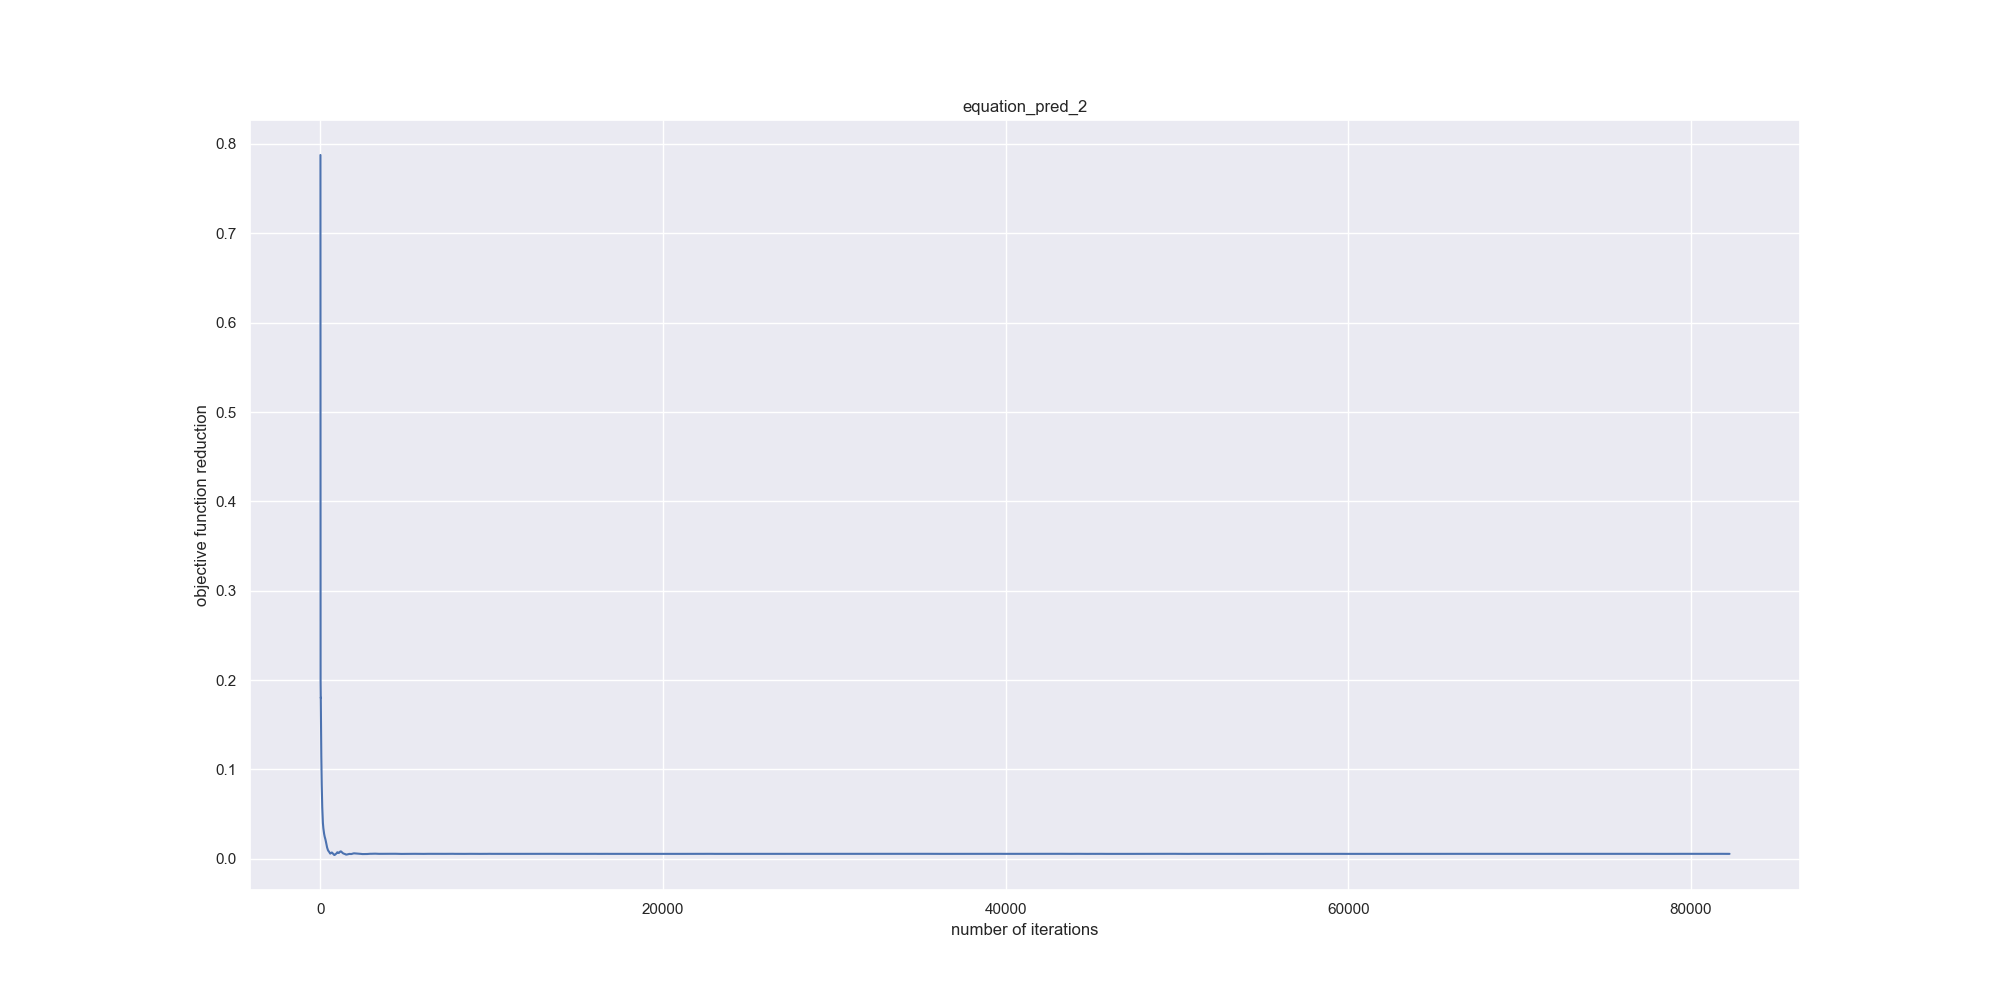
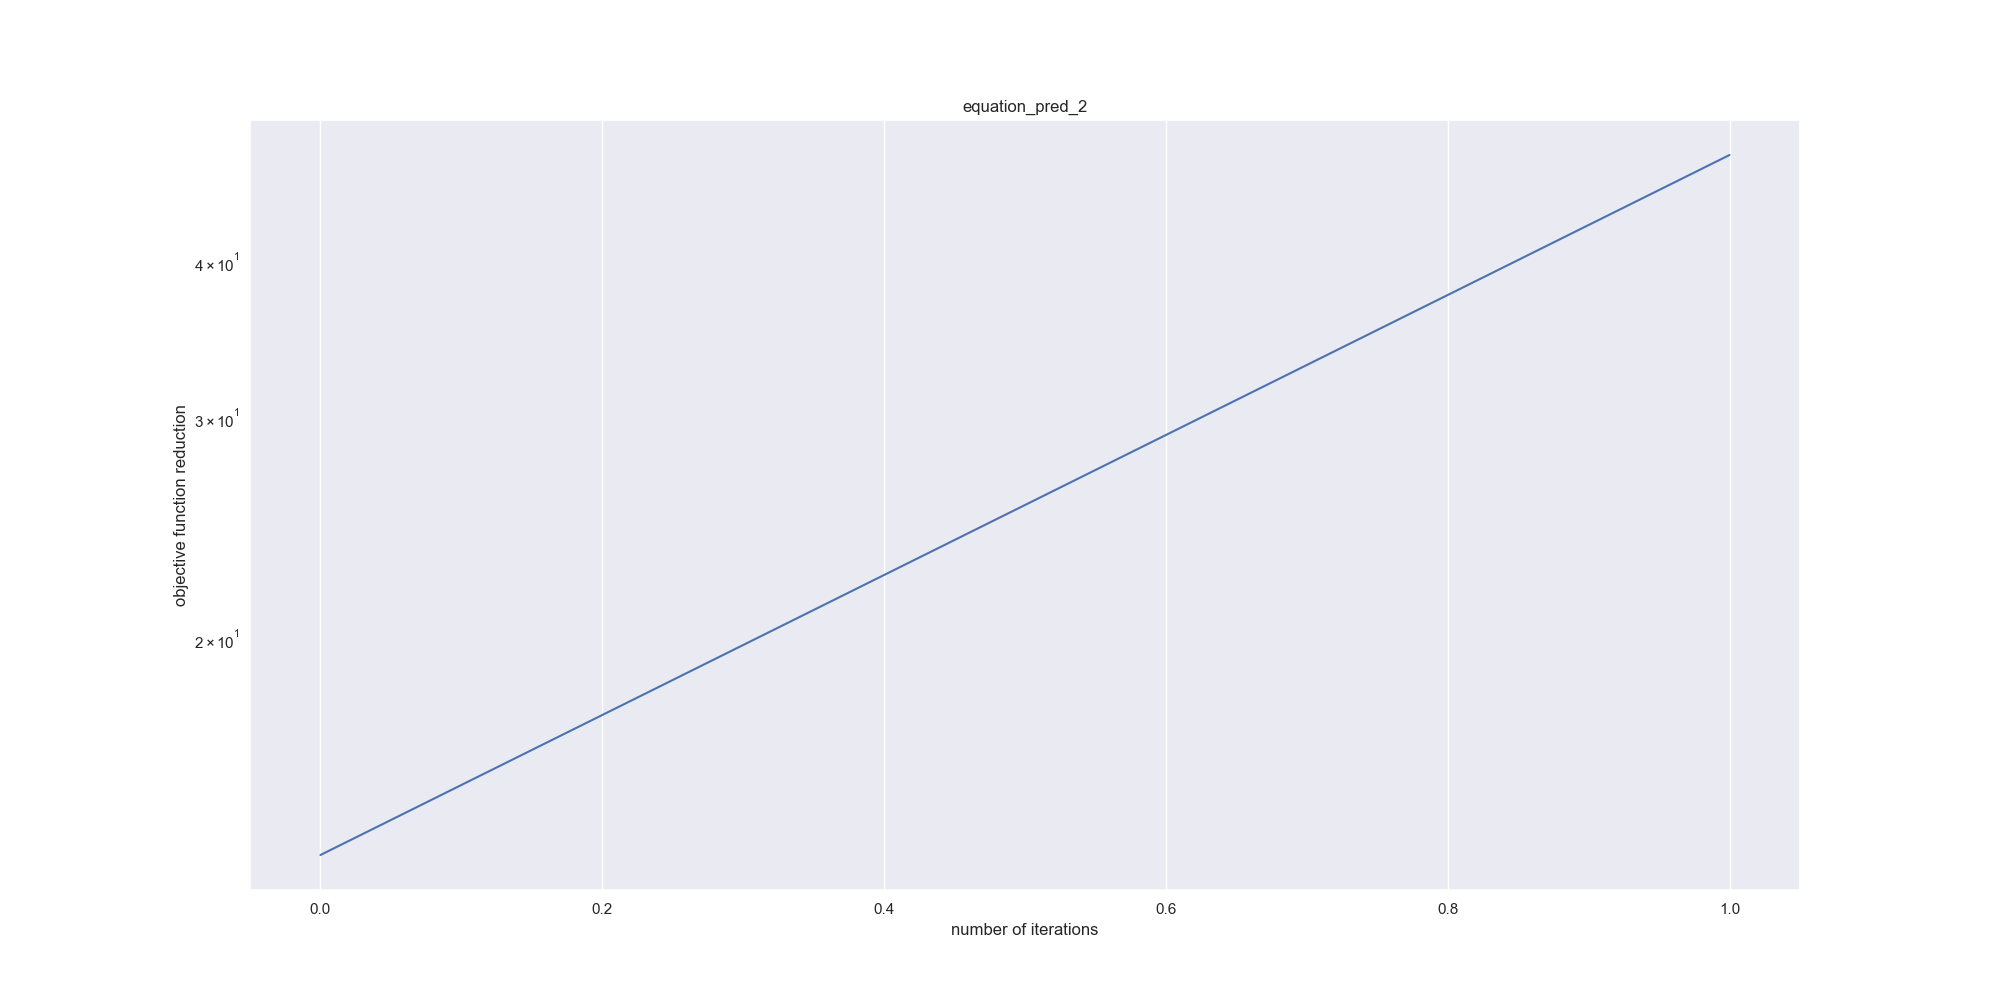
complete

diff --git a/system.py b/system.py
@@ -49,41 +49,42 @@ class system_creator:
         dictionary = self.pol(exp,degree,variables,states)
         
         mat_pol = pd.DataFrame.from_dict(dictionary)
-        mat_cos = np.cos(mat_pol)
-        string_1 = "cos("
-        string_2 = ")"
-        mat_cos.columns = [string_1+str(col)+string_2 for col in mat_cos.columns] 
-        mat_tan = np.tan(mat_pol)
-        string_1 = "tan("
-        string_2 = ")"
-        mat_tan.columns = [string_1+str(col)+string_2 for col in mat_tan.columns] 
+        # mat_cos = np.cos(mat_pol)
+        # string_1 = "cos("
+        # string_2 = ")"
+        # mat_cos.columns = [string_1+str(col)+string_2 for col in mat_cos.columns] 
+        # mat_tan = np.tan(mat_pol)
+        # string_1 = "tan("
+        # string_2 = ")"
+        # mat_tan.columns = [string_1+str(col)+string_2 for col in mat_tan.columns] 
         
-        mat_sin = np.sin(mat_pol)
-        string_1 = "sin("
-        string_2 = ")"
-        mat_sin.columns = [string_1+str(col)+string_2 for col in mat_sin.columns] 
+        # mat_sin = np.sin(mat_pol)
+        # string_1 = "sin("
+        # string_2 = ")"
+        # mat_sin.columns = [string_1+str(col)+string_2 for col in mat_sin.columns] 
         
-        mat_exp = np.exp(mat_pol)
-        string_1 = "exp("
-        string_2 = ")"
-        mat_exp.columns = [string_1+str(col)+string_2 for col in mat_exp.columns] 
+        # mat_exp = np.exp(mat_pol)
+        # string_1 = "exp("
+        # string_2 = ")"
+        # mat_exp.columns = [string_1+str(col)+string_2 for col in mat_exp.columns] 
         
-        mat_log = np.log(mat_pol)
-        string_1 = "log("
-        string_2 = ")"
-        mat_log.columns = [string_1+str(col)+string_2 for col in mat_log.columns] 
+        # mat_log = np.log(mat_pol)
+        # string_1 = "log("
+        # string_2 = ")"
+        # mat_log.columns = [string_1+str(col)+string_2 for col in mat_log.columns] 
         
-        elems = ['pol','sin','cos','tan','exp','log']
-        base_dict = dict(zip(elems,[mat_pol,mat_sin,mat_cos,mat_tan,mat_exp,mat_log]))
-        if self.comp:
-            combinations = [(elems[i],elems[j]) for i in range(len(elems)) for j in range(len(elems))]
-            combinations = combinations[1:]
-            base_dict = self.compose_dict(base_dict,combinations,degree,compositions)
-        df=pd.DataFrame(np.ones((states.shape[0],1)))
-        df.columns = ["constant"]
-        for shape in base_dict:
-            df = pd.concat((df,base_dict[shape]),axis=1)
-        return df
+        #elems = ['pol']
+        #base_dict = dict(zip(elems,[mat_pol]))
+        #df= pd.DataFrame.from_dict(base_dict,orient='columns')
+        #if self.comp:
+        #    combinations = [(elems[i],elems[j]) for i in range(len(elems)) for j in range(len(elems))]
+        #    combinations = combinations[1:]
+        #    base_dict = self.compose_dict(base_dict,combinations,degree,compositions)
+        #df=pd.DataFrame(np.ones((states.shape[0],1)))
+        #df.columns = ["constant"]
+        #for shape in base_dict:
+        #    df = pd.concat((df,base_dict[shape]),axis=1)
+        return mat_pol
 
 
     def pol(self,exp,degree,variables,states):

diff --git a/main.py b/main.py
@@ -43,41 +43,45 @@ def main():
 
     for points in n_points:
         
-        sigma = np.random.normal(loc = 0,scale = 5)
-        rho = np.random.normal(loc = 0,scale = 5)
-        beta = np.random.normal(loc = 0,scale = 5)
+        #create lorentz system prediction
+        sigma = np.random.normal(loc = 0,scale = 10)
+        rho = np.random.normal(loc = 0,scale = 10)
+        beta = np.random.normal(loc = 0,scale = 10)
         states,diff = lorentz_system(sigma,rho,beta,points)
         states = normalize(states)
         diff = np.nan_to_num(diff,nan=0,posinf=0,neginf=0)
         diff = normalize(diff)
         
-        '''
-        plt.figure()
-        ax = plt.axes(projection='3d')
-        # Data for a three-dimensional scattered
-        ax.scatter3D(diff[:,0],diff[:,1], diff[:,2],c=diff[:,0]*diff[:,1],cmap="summer")
-        plt.savefig("orig_lorentz_"+str(points)+".png")
-        '''
-
+        
+        #create library
         sys = system_creator(states,True)
+        labels = sys.lib.columns.to_list()
         sys.lib = np.nan_to_num(sys.lib,nan=0,posinf=0,neginf=0)
+        
+        #set parameters
         initial_guess = np.zeros((sys.lib.shape[1],states.shape[1]))
-        rho = 0.1
-        lamb = 1e-1
+        rho = 0.5
+        lamb = 1e-5
         maxiter = 1e4
         epsilon = 1e-4
+
+        #create storage
         solution ={}
         obj_func = {}
         time_per_step = {}
         active_columns = {}
         opt_gap = {}
-        for col in range(initial_guess.shape[1]):
 
+        sns.set()
+        for col in range(1):
             pgm = PGM_solver(sys,initial_guess[:,col],diff[:,col])
-            solution[col] ,obj_func[col],time_per_step[col],active_columns[col],opt_gap[col]=pgm.PGMD(f,grad_f,g_prox,lamb,rho,maxiter,epsilon)
+            solution[col] ,obj_func[col],time_per_step[col],active_columns[col],opt_gap[col]=pgm.PGMD_FISTA(f,grad_f,g_prox,lamb,rho,maxiter,epsilon)
+            sparse_index = (np.nonzero(solution[col]))[0]
+            for index in sparse_index:
+                print("sparse representation for equation %d found by PGMB:%s " %(col,labels[index]))
+                
             plt.figure(figsize=(20,10))
-            sns.set()
-            plt.plot(obj_func[col])
+            plt.semilogy(obj_func[col])
             plt.ylabel('objective function reduction')
             plt.xlabel('number of iterations')
             plt.title("equation_pred_"+str(col))

diff --git a/PGM.py b/PGM.py
@@ -29,12 +29,14 @@ class PGM_solver:
       A2 = 2*np.matmul(A.T,A)/len(x)
       A2 = np.nan_to_num(A2,nan=0,posinf=0,neginf=0)
       lip=np.real((np.max(np.linalg.eig(A2)[0])))
-      gamma = 2/lip
+      gamma = 1
       obj_function=[]
       time_per_step = []
       active_columns = []
       optimality_gap = []
-      for k in range(int(10)):
+      
+      #for k in range(maxiter):
+      while(1/gamma*np.linalg.norm(g_prox(x-gamma*grad_f(A,x,b),lamb,gamma)-x)) > epsilon:
          current= time.time()
          gamma = self.backtracking(x,grad_f,g_prox,lip,rho,lamb)
          x = g_prox(x-gamma*grad_f(A,x,b),lamb,gamma)
@@ -43,9 +45,7 @@ class PGM_solver:
          time_per_step.append(final-current)
          active_columns.append(np.nonzero(x))
          optimality_gap.append(1/gamma*np.linalg.norm(g_prox(x-gamma*grad_f(A,x,b),lamb,gamma)-x)-epsilon)
-      print(x)   
-      print("finished")
-
+         print(x)
       return x,obj_function,time_per_step,active_columns,optimality_gap
    
 
@@ -56,8 +56,9 @@ class PGM_solver:
       A2 = 2*np.matmul(A.T,A)/len(y)
       A2 = np.nan_to_num(A2,nan=0,posinf=0,neginf=0)
       lip=np.real((np.max(np.linalg.eig(A2)[0])))
-      gamma = 2/lip
+      gamma = 1
       obj_function=[]
+      
       xk_1 = y
       tk_1 = 1
       time_per_step = []
@@ -77,7 +78,7 @@ class PGM_solver:
          time_per_step.append(final-current)
          active_columns.append(np.nonzero(xk))
          optimality_gap.append(1/gamma*np.linalg.norm(g_prox(xk-gamma*grad_f(A,xk,b),lamb,gamma)-xk)-epsilon)
-         
-      print(xk)
-      print("finished")
+         print(xk)
+         #print(np.round(f(A,xk,b),3),np.nonzero(xk),np.round(1/gamma*np.linalg.norm(g_prox(y-gamma*grad_f(A,y,b),lamb,gamma)-y),3))
+
       return xk,obj_function,time_per_step,active_columns,optimality_gap
